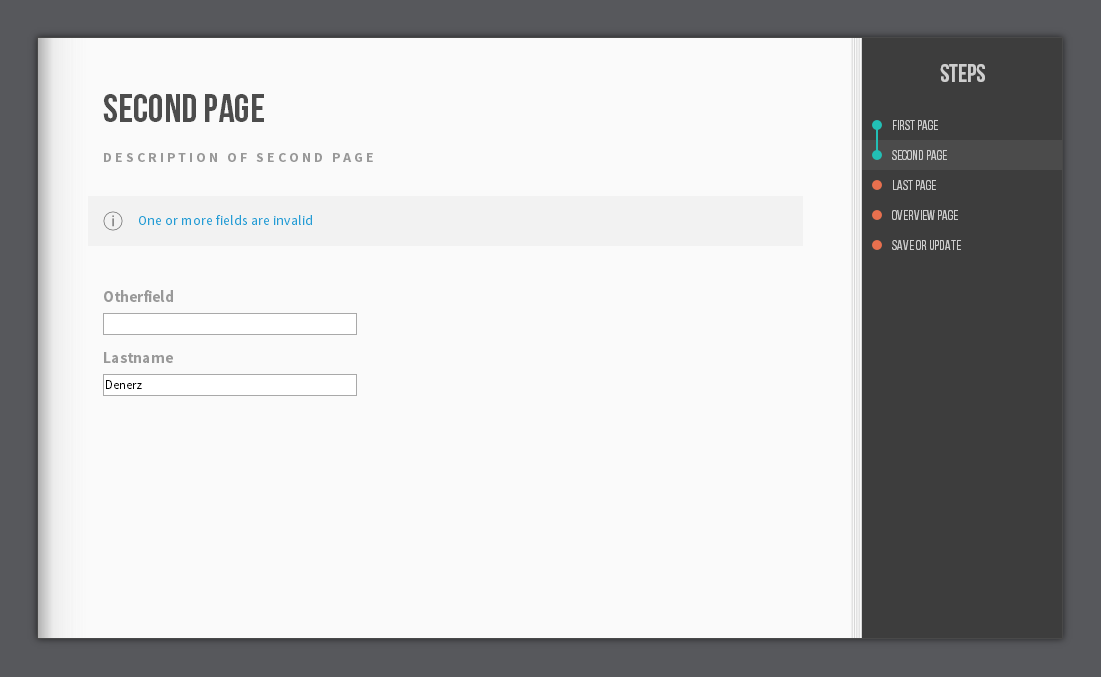
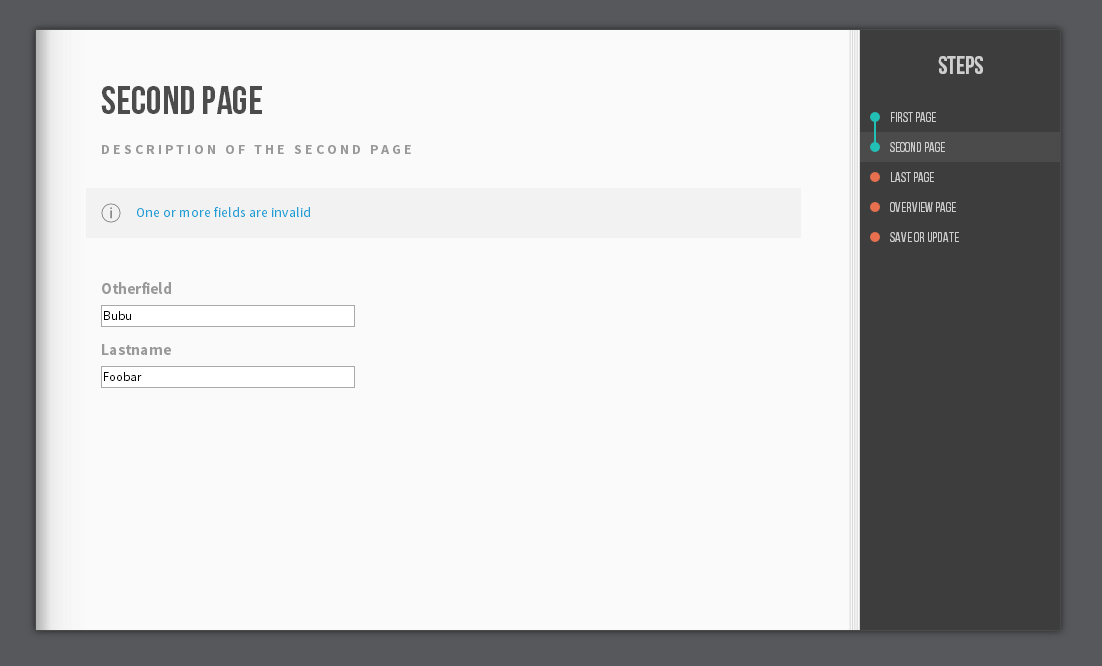
changed content

diff --git a/app/index.html b/app/index.html
@@ -241,7 +241,7 @@
 		<div class='pages'>
 			<div class='page current' data-pageid='page-1'>
 				<h2>First page</h2>
-				<h3>Description of first page</h3>
+				<h3>Description of the first page</h3>
 				<div class='content'>
 					<label for='title'>Title</label>
 		  			<input name='title' value=''/>
@@ -254,7 +254,7 @@
 			</div>
 			<div class='page' data-pageid='page-2'>
 				<h2>Second page</h2>
-				<h3>Description of second page</h3>
+				<h3>Description of the second page</h3>
 				<div class='content'>
 					<label for='otherField'>Otherfield</label>
 					<input name='otherField' value=''/>  			
@@ -264,7 +264,7 @@
 			</div>
 			<div class='page' data-pageid='page-3'>
 				<h2>Last page</h2>
-				<h3>Description of last page</h3>
+				<h3>Description of the last page</h3>
 				<div class='content'> 
 					<label for='lastField'>Lastfield</label>
 					<input name='lastField' value=''/>
@@ -272,7 +272,7 @@
 			</div>
 			<div class='page' data-pageid='page-overview'>
 				<h2>Overview</h2>
-				<h3>Description of overview</h3>
+				<h3>Description of the overview</h3>
 				<div class='content'>
 				</div>
 			</div>
